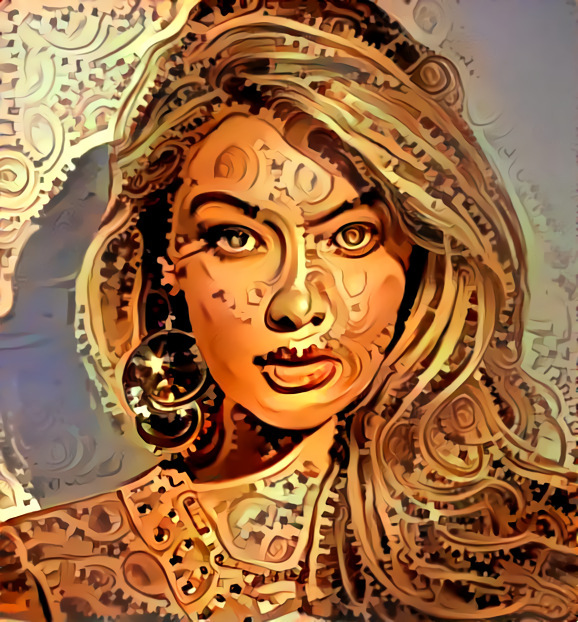
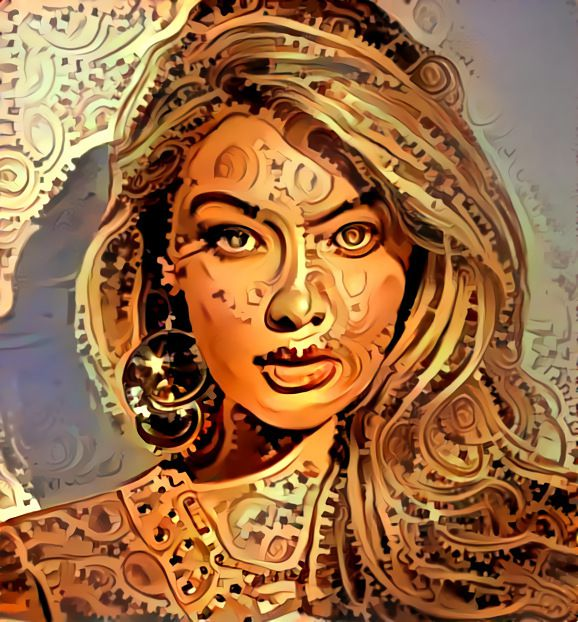
compress images and fix up
Clark was here :V

diff --git a/src/js/index.js b/src/js/index.js
@@ -4,7 +4,10 @@ GLOBALS.projects = [];
 
 $(function() {
   $.getJSON('http://www-potential/server/api.php/works?filter={"type": "images"}&options={"max":5,"sort":"DES"}', function(response) {
-    console.log(response);
-    GLOBALS.works = response.data.works;
+    if (response.success) {
+      GLOBALS.works = response.data.works;
+    } else {
+      alert(response.reason);
+    }
   });
 });
